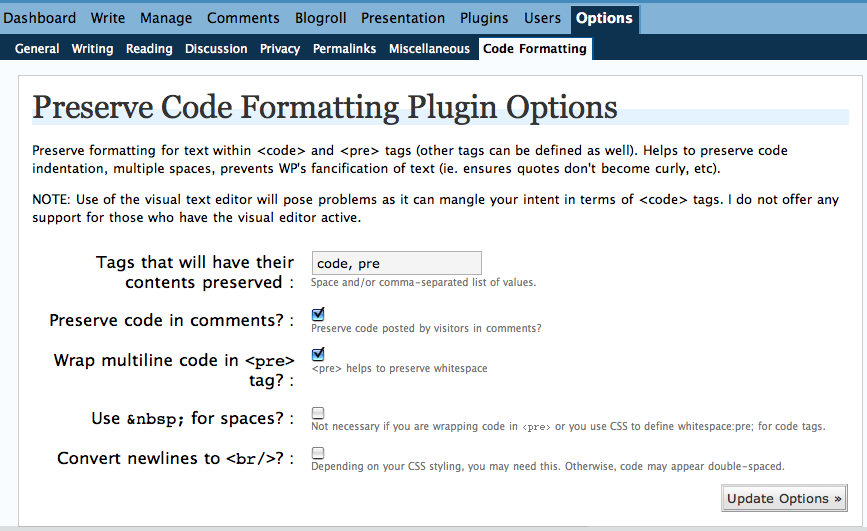
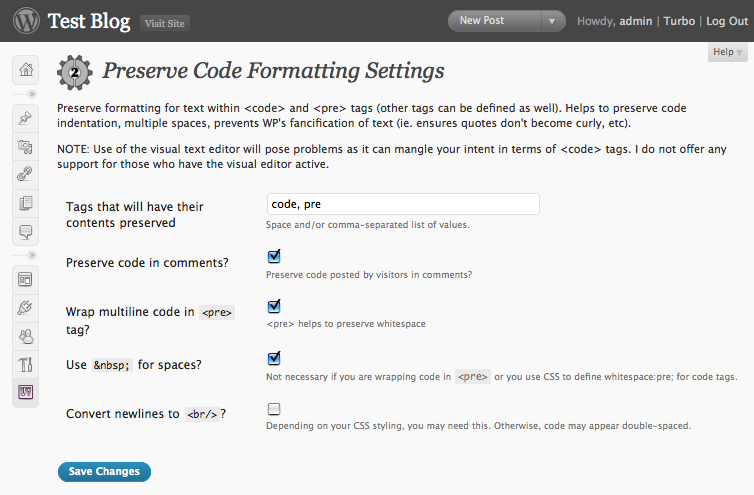
Fixed long-running bug that caused some preserved code to appear garbled; updated a lot of internal plugin management code; added 'Settings' link to plugin's plugin listing entry; used plugins_url() instead of hardcoded path; brought admin markup in line with modern conventions; minor reformatting (
git-svn-id: https://plugins.svn.wordpress.org/preserve-code-formatting/trunk@140944 b8457f37-d9ea-0310-8a92-e5e31aec5664

Changed region(s): [[0.0, 0.0, 1.0, 1.0]]

diff --git a/preserve-code-formatting.php b/preserve-code-formatting.php
@@ -1,7 +1,7 @@
 <?php
 /*
 Plugin Name: Preserve Code Formatting
-Version: 2.0
+Version: 2.5
 Plugin URI: http://coffee2code.com/wp-plugins/preserve-code-formatting
 Author: Scott Reilly
 Author URI: http://coffee2code.com
@@ -41,7 +41,7 @@ INSERT INTO $tablepostmeta
 VALUES ('$post_id','link','$extended')
 ");
 
-Compatible with WordPress 2.0+, 2,1+, 2.2+, 2.3+, and 2.5.
+Compatible with WordPress 2.6+, 2.7+, 2.8+.
 
 =>> Read the accompanying readme.txt file for more information.  Also, visit the plugin's homepage
 =>> for more information and the latest updates
@@ -51,13 +51,14 @@ Installation:
 1. Download the file http://coffee2code.com/wp-plugins/preserve-code-formatting.zip and unzip it into your 
 /wp-content/plugins/ directory.
 2. Activate the plugin through the 'Plugins' admin menu in WordPress
-3. Go to the Options -> Code Formatting (or in WP 2.5: Settings -> Code Formatting) admin options page.
-Optionally customize the options.
+3. Go to the Settings -> Code Formatting admin settings page (which you can also get to via the Settings
+link next to the plugin on the Manage Plugins page) and customize the settings.
+4. Write a post with code contained within `<code>` and `</code>` tags (using the HTML editor, not the Visual editor).
 
 */
 
 /*
-Copyright (c) 2004-2008 by Scott Reilly (aka coffee2code)
+Copyright (c) 2004-2009 by Scott Reilly (aka coffee2code)
 
 Permission is hereby granted, free of charge, to any person obtaining a copy of this software and associated documentation 
 files (the "Software"), to deal in the Software without restriction, including without limitation the rights to use, copy, 
@@ -80,8 +81,13 @@ class PreserveCodeFormatting {
 	var $show_admin = true;	// Change this to false if you don't want the plugin's admin page shown.
 	var $config = array();
 	var $options = array(); // Don't use this directly
+	var $plugin_basename = '';
+	var $menu_name = '';
 
 	function PreserveCodeFormatting() {
+		$this->plugin_name = __('Preserve Code Formatting');
+		$this->menu_name = __('Code Formatting');
+		$this->plugin_basename = plugin_basename(__FILE__);
 		$this->config = array(
 			// input can be 'checkbox', 'text', 'hidden', or 'none'
 			'preserve_tags' => array('input' => 'text', 'default' => array('code', 'pre'), 'datatype' => 'array',
@@ -116,7 +122,7 @@ class PreserveCodeFormatting {
 		add_filter('excerpt_save_pre', array(&$this, 'preserve_postprocess'), 100);
 
 		// Comment out these next lines if you don't want to allow preserve code formatting for comments.
-		if ($options['preserve_in_comments']) {
+		if ( $options['preserve_in_comments'] ) {
 			add_filter('comment_text', array(&$this, 'preserve_preprocess'), 2);
 			add_filter('comment_text', array(&$this, 'preserve_postprocess_and_preserve'), 100);
 			add_filter('pre_comment_content', array(&$this, 'preserve_preprocess'), 2);
@@ -130,24 +136,32 @@ class PreserveCodeFormatting {
 	}
 
 	function admin_menu() {
-		if ($this->show_admin)
-			add_options_page('Preserve Code Formatting', 'Code Formatting', 9, basename(__FILE__), array(&$this, 'options_page'));
+		if ( $this->show_admin ) {
+			global $wp_version;
+			if ( current_user_can('manage_options') ) {
+				if ( version_compare( $wp_version, '2.6.999', '>' ) )
+					add_filter( 'plugin_action_links_' . $this->plugin_basename, array(&$this, 'plugin_action_links') );
+				add_options_page($this->menu_name, $this->menu_name, 9, $this->plugin_basename, array(&$this, 'options_page'));
+			}
+		}
+	}
+
+	function plugin_action_links( $action_links ) {
+		$settings_link = '<a href="options.php?page='.$this->plugin_basename.'">' . __('Settings') . '</a>';
+		array_unshift( $action_links, $settings_link );
+
+		return $action_links;
 	}
 
 	function get_options() {
-		if (!empty($this->options)) return $this->options;
+		if ( !empty($this->options) ) return $this->options;
 		// Derive options from the config
 		$options = array();
 		foreach (array_keys($this->config) as $opt) {
 			$options[$opt] = $this->config[$opt]['default'];
 		}
-        $existing_options = get_option($this->admin_options_name);
-        if (!empty($existing_options)) {
-            foreach ($existing_options as $key => $value)
-                $options[$key] = $value;
-        }
-		$this->options = $options;
-        return $options;
+		$this->options = wp_parse_args(get_option($this->admin_options_name), $options);
+		return $this->options;
 	}
 
 	function options_page() {
@@ -157,23 +171,40 @@ class PreserveCodeFormatting {
 			check_admin_referer($this->nonce_field);
 
 			foreach (array_keys($options) AS $opt) {
-				$options[$opt] = $_POST[$opt];
-				if (($this->config[$opt]['input'] == 'checkbox') && !$options[$opt])
+				$options[$opt] = htmlspecialchars(stripslashes($_POST[$opt]));
+				$input = $this->config[$opt]['input'];
+				if (($input == 'checkbox') && !$options[$opt])
 					$options[$opt] = 0;
-				if ($this->config[$opt]['datatype'] == 'array')
-					$options[$opt] = explode(',', str_replace(array(', ', ' ', ','), ',', $options[$opt]));
+				if ($this->config[$opt]['datatype'] == 'array') {
+					if ($input == 'text')
+						$options[$opt] = explode(',', str_replace(array(', ', ' ', ','), ',', $options[$opt]));
+					else
+						$options[$opt] = array_map('trim', explode("\n", trim($options[$opt])));
+				}
+				elseif ($this->config[$opt]['datatype'] == 'hash') {
+					if ( !empty($options[$opt]) ) {
+						$new_values = array();
+						foreach (explode("\n", $options[$opt]) AS $line) {
+							list($shortcut, $text) = array_map('trim', explode("=>", $line, 2));
+							if (!empty($shortcut)) $new_values[str_replace('\\', '', $shortcut)] = str_replace('\\', '', $text);
+						}
+						$options[$opt] = $new_values;
+					}
+				}
 			}
 			// Remember to put all the other options into the array or they'll get lost!
 			update_option($this->admin_options_name, $options);
 
-			echo "<div class='updated'><p>Plugin settings saved.</p></div>";
+			echo "<div id='message' class='updated fade'><p><strong>" . __('Settings saved.') . '</strong></p></div>';
 		}
 
-		$action_url = $_SERVER[PHP_SELF] . '?page=' . basename(__FILE__);
+		$action_url = $_SERVER[PHP_SELF] . '?page=' . $this->plugin_basename;
+		$logo = plugins_url() . '/' . basename($_GET['page'], '.php') . '/c2c_minilogo.png';
 
 		echo <<<END
 		<div class='wrap'>
-			<h2>Preserve Code Formatting Plugin Options</h2>
+			<div class="icon32" style="width:44px;"><img src='$logo' alt='A plugin by coffee2code' /><br /></div>
+			<h2>{$this->plugin_name} Settings</h2>
 			<p>Preserve formatting for text within &lt;code> and &lt;pre> tags (other tags can be defined as well).
 			Helps to preserve code indentation, multiple spaces, prevents WP's fancification of text (ie. ensures 
 			quotes don't become curly, etc).</p>
@@ -184,45 +215,110 @@ class PreserveCodeFormatting {
 			<form name="preserve_code_formatting" action="$action_url" method="post">	
 END;
 				wp_nonce_field($this->nonce_field);
-		echo '<fieldset class="option"><table width="100%" cellspacing="2" cellpadding="5" class="optiontable editform">';
+		echo '<table width="100%" cellspacing="2" cellpadding="5" class="optiontable editform form-table"><tbody>';
 				foreach (array_keys($options) as $opt) {
 					$input = $this->config[$opt]['input'];
-					if ($input == 'none') continue;
+					if ( $input == 'none' ) continue;
 					$label = $this->config[$opt]['label'];
 					$value = $options[$opt];
-					if (($input == 'checkbox') && ($value == 1)) {
-						$checked = 'checked=checked ';
+					if ( $input == 'checkbox' ) {
+						$checked = ($value == 1) ? 'checked=checked ' : '';
 						$value = 1;
 					} else {
 						$checked = '';
 					};
-					if ($this->config[$opt]['datatype'] == 'array')
-						$value = implode(', ', $value);
-					echo "<tr valign='top'><th width='50%' scope='row'>$label : </th>";
-					echo "<td><input name='$opt' type='$input' id='$opt' value='$value' $checked/>";
-					if ($this->config[$opt]['help']) {
+					if ( $this->config[$opt]['datatype'] == 'array' ) {
+						if ( !is_array($value) )
+							$value = '';
+						else {
+							if ( $input == 'textarea' || $input == 'inline_textarea' )
+								$value = implode("\n", $value);
+							else
+								$value = implode(', ', $value);
+						}
+					} elseif ( $this->config[$opt]['datatype'] == 'hash' ) {
+						if ( !is_array($value) )
+							$value = '';
+						else {
+							$new_value = '';
+							foreach ($value AS $shortcut => $replacement) {
+								$new_value .= "$shortcut => $replacement\n";
+							}
+							$value = $new_value;
+						}
+					}
+					echo "<tr valign='top'>";
+					if ( $input == 'textarea' ) {
+						echo "<td colspan='2'>";
+						if ( $label ) echo "<strong>$label</strong><br />";
+						echo "<textarea name='$opt' id='$opt' {$this->config[$opt]['input_attributes']}>" . $value . '</textarea>';
+					} else {
+						echo "<th scope='row'>$label</th><td>";
+						if ( $input == "inline_textarea" )
+							echo "<textarea name='$opt' id='$opt' {$this->config[$opt]['input_attributes']}>" . $value . '</textarea>';
+						elseif ( $input == 'select' ) {
+							echo "<select name='$opt' id='$opt'>";
+							foreach ($this->config[$opt]['options'] as $sopt) {
+								$selected = $value == $sopt ? " selected='selected'" : '';
+								echo "<option value='$sopt'$selected>$sopt</option>";
+							}
+							echo "</select>";
+						} else {
+							$tclass = ($input == 'short_text') ? 'small-text' : 'regular-text';
+							if ($input == 'short_text') $input = 'text';
+							echo "<input name='$opt' type='$input' id='$opt' value='$value' class='$tclass' $checked {$this->config[$opt]['input_attributes']} />";
+						}
+					}
+					if ( $this->config[$opt]['help'] ) {
 						echo "<br /><span style='color:#777; font-size:x-small;'>";
 						echo $this->config[$opt]['help'];
 						echo "</span>";
 					}
 					echo "</td></tr>";
 				}
+		$save_text = __('Save Changes');
 		echo <<<END
-			</table>
-			</fieldset>
+			</tbody></table>
 			<input type="hidden" name="submitted" value="1" />
-			<div class="submit"><input type="submit" name="Submit" value="Update Options &raquo;" /></div>
+			<div class="submit"><input type="submit" name="Submit" class="button-primary" value="{$save_text}" /></div>
 		</form>
 			</div>
 END;
 		echo <<<END
-		<div class='wrap' style="text-align:center; color:#888;">This plugin brought to you by <a href="http://coffee2code.com" title="coffee2code.com">Scott Reilly, aka coffee2code</a>.<br /><span style="font-size:x-small;"><a href="http://coffee2code.com/donate">Did you find this plugin useful?</a></span></div>
+		<style type="text/css">
+			#c2c {
+				text-align:center;
+				color:#888;
+				background-color:#ffffef;
+				padding:5px 0 0;
+				margin-top:12px;
+				border-style:solid;
+				border-color:#dadada;
+				border-width:1px 0;
+			}
+			#c2c div {
+				margin:0 auto;
+				padding:5px 40px 0 0;
+				width:45%;
+				min-height:40px;
+				background:url('$logo') no-repeat top right;
+			}
+			#c2c span {
+				display:block;
+				font-size:x-small;
+			}
+		</style>
+		<div id='c2c' class='wrap'>
+			<div>
+			This plugin brought to you by <a href="http://coffee2code.com" title="coffee2code.com">Scott Reilly, aka coffee2code</a>.
+			<span><a href="http://coffee2code.com/donate" title="Please consider a donation">Did you find this plugin useful?</a></span>
+			</div>
+		</div>
 END;
 	}
 
 	function prep_code( $text ) {
 		$options = $this->get_options();
-
 		$text = preg_replace("/(\r\n|\n|\r)/", "\n", $text);
 		$text = preg_replace("/\n\n+/", "\n\n", $text);
 		$text = str_replace(array("&#36&;", "&#39&;"), array("$", "'"), $text);
@@ -244,15 +340,15 @@ END;
 		$options = $this->get_options();
 		$preserve_tags = $options['preserve_tags'];
 		$result = '';
-		foreach ($preserve_tags as $tag) {
-			if (!empty($result)) {
+		foreach ( $preserve_tags as $tag ) {
+			if ( !empty($result) ) {
 				$content = $result;
 				$result = '';
 			}
 			$codes = preg_split("/(<{$tag}[^>]*>.*<\\/{$tag}>)/Us", $content, -1, PREG_SPLIT_DELIM_CAPTURE);
-			foreach ($codes as $code) {
-				if (preg_match("/^<{$tag}[^>]*>(.*)<\\/{$tag}>/Us", $code, $match))
-					$code = "[[{$tag}]]" . base64_encode(stripslashes($match[1])) . "[[/{$tag}]]";
+			foreach ( $codes as $code ) {
+				if ( preg_match("/^<{$tag}[^>]*>(.*)<\\/{$tag}>/Us", $code, $match) )
+					$code = "[[{$tag}]]" . base64_encode(addslashes($match[1]))  . "[[/{$tag}]]";
 				$result .= $code;
 			}
 		}
@@ -265,16 +361,16 @@ END;
 		$preserve_tags = $options['preserve_tags'];
 		$wrap_multiline_code_in_pre = $options['wrap_multiline_code_in_pre'];
 		$result = '';
-		foreach ($preserve_tags as $tag) {
-			if (!empty($result)) {
+		foreach ( $preserve_tags as $tag ) {
+			if ( !empty($result) ) {
 				$content = $result;
 				$result = '';
 			}
 			$codes = preg_split("/(\\[\\[{$tag}\\]\\].*\\[\\[\\/{$tag}\\]\\])/Us", $content, -1, PREG_SPLIT_DELIM_CAPTURE);
-			foreach ($codes as $code) {
-				if (preg_match("/\\[\\[{$tag}\\]\\](.*)\\[\\[\\/{$tag}\\]\\]/Us", $code, $match)) {
+			foreach ( $codes as $code ) {
+				if ( preg_match("/\\[\\[{$tag}\\]\\](.*)\\[\\[\\/{$tag}\\]\\]/Us", $code, $match) ) {
 					$data = base64_decode($match[1]);
-					if ($preserve) $data = $this->preserve_code_formatting($data);
+					if ( $preserve ) $data = $this->preserve_code_formatting($data);
 					else $data = $wpdb->escape($data);
 					$code = "<$tag>$data</$tag>";
 					if ( $preserve && $wrap_multiline_code_in_pre && preg_match("/\n/", $data) )
@@ -293,13 +389,11 @@ END;
 } // end PreserveCodeFormatting
 
 endif; // end if !class_exists()
+
 if ( class_exists('PreserveCodeFormatting') ) :
-	// Get the ball rolling
 	$preserve_code_formatting = new PreserveCodeFormatting();
-	// Actions and filters
-	if (isset($preserve_code_formatting)) {
+	if ( isset($preserve_code_formatting) )
 		register_activation_hook( __FILE__, array(&$preserve_code_formatting, 'install') );
-	}
 endif;
 
 ?>
